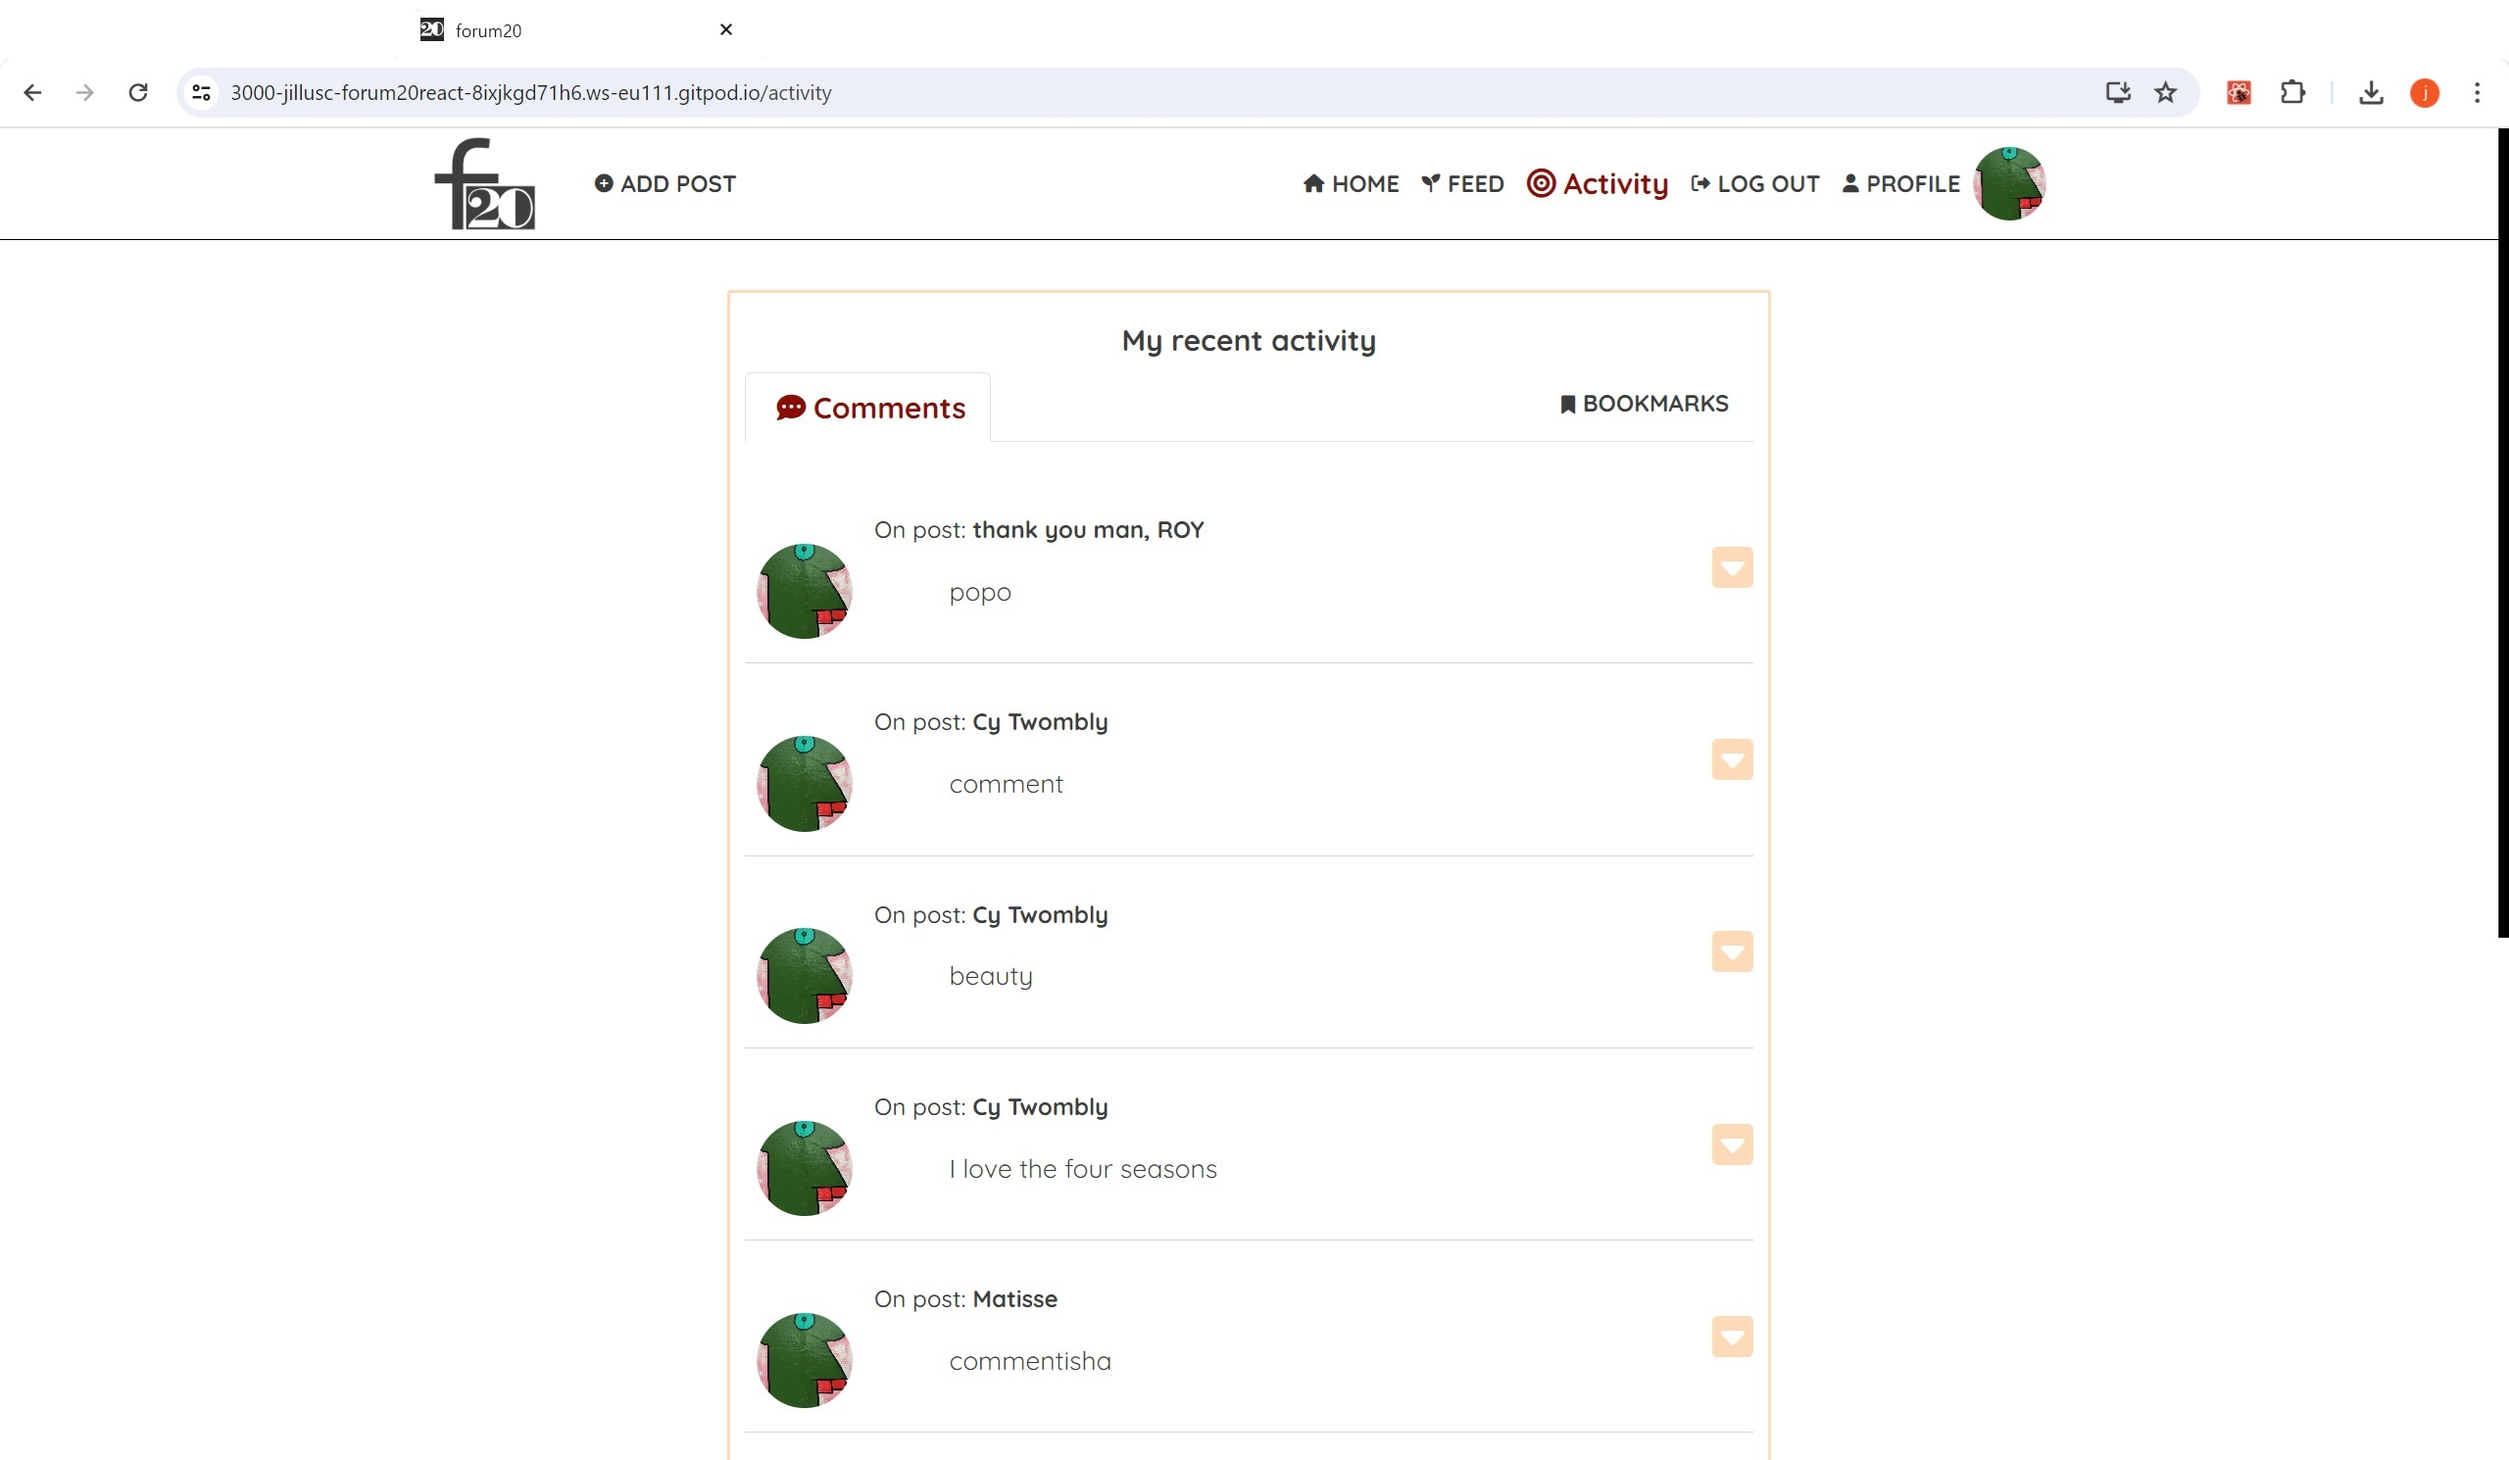
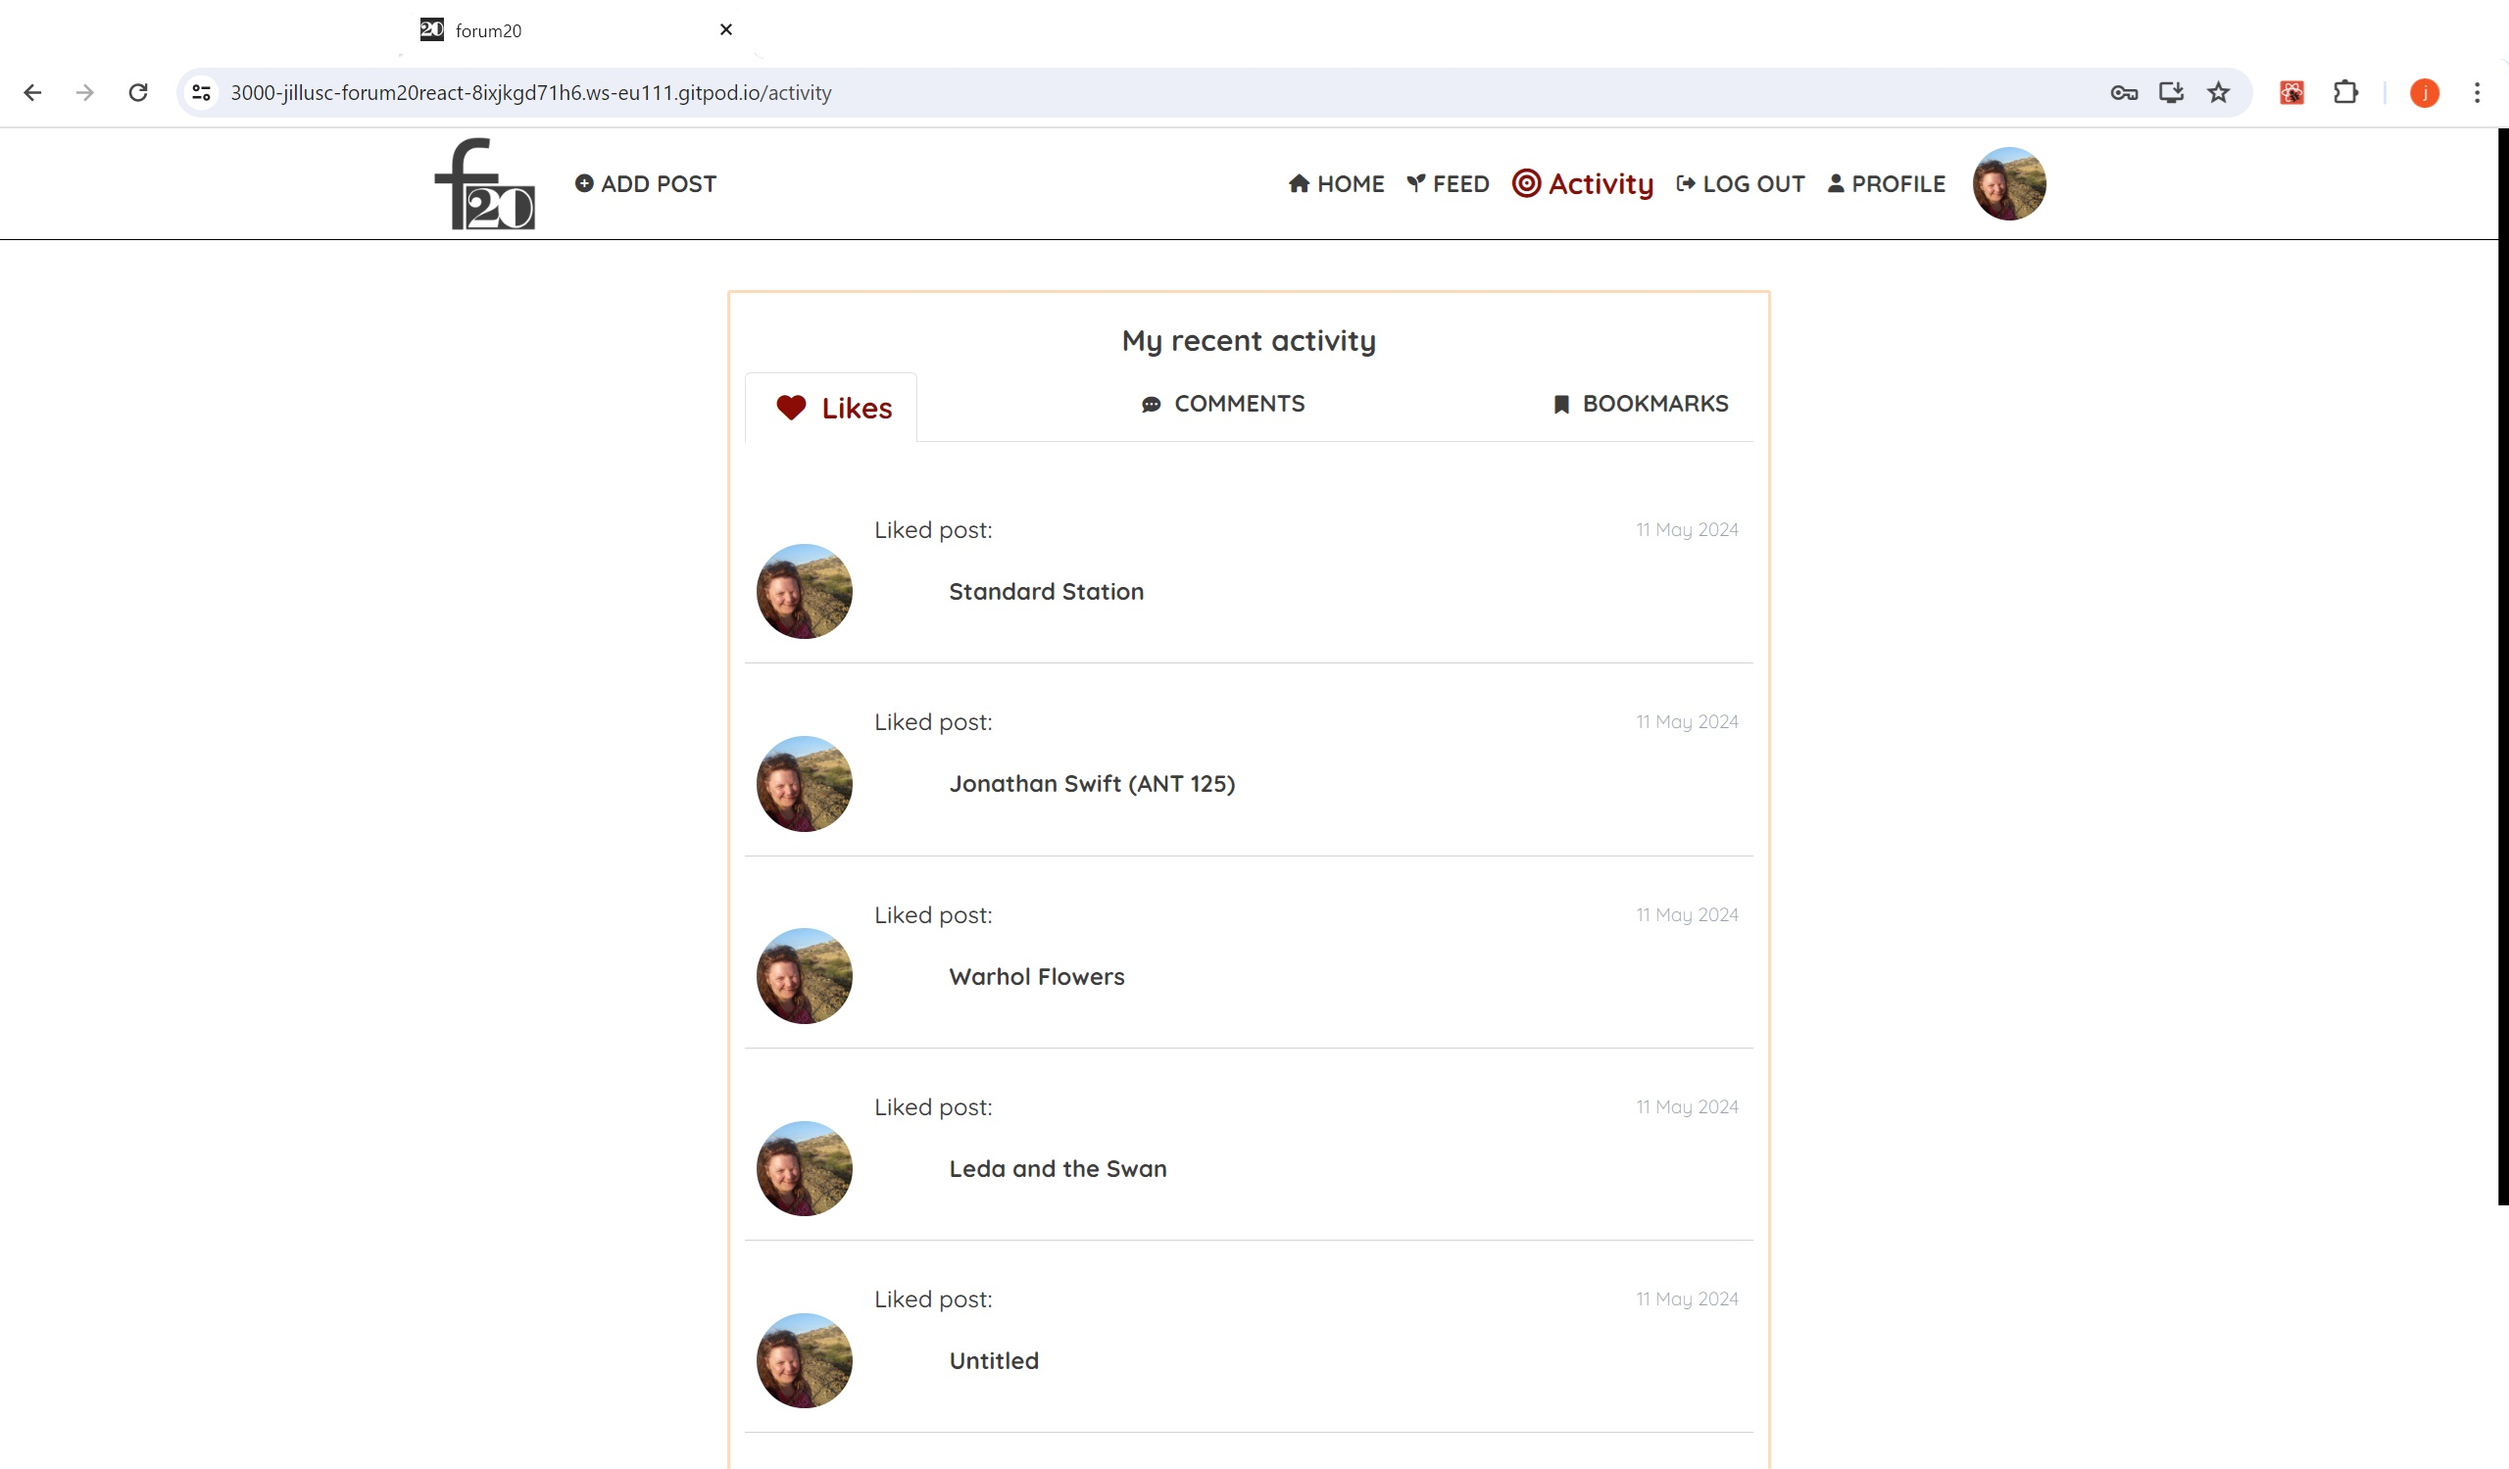
Updated README with regard to new inclusion of Likes tab in UserActivity page.

diff --git a/README.md b/README.md
@@ -282,9 +282,10 @@ Tailored content is displayed to the registered user through this page. The Feed
 
 ### Activity page
 
-The Activity page aggregates all the comments that the authenticated user has submitted and the posts they have bookmarked. A simple organisation of the content utilising tabs offers a convenient way for the user to review these interactions, with the options to revisit the relevant post page as well as edit and delete the comments. For cohesion and consistency of design, the tab headers match the appearance of the navbar links:<br><br>
+The Activity page aggregates all the likes and comments that the user has submitted and the posts they have bookmarked. A simple organisation of the content utilising tabs offers a convenient way for the user to review these interactions, with the options to revisit the relevant post page as well as edit and delete the comments. For cohesion and consistency of design, the tab headers match the appearance of the navbar links:<br><br>
 <img src="README%20images/page-activity1.jpg"><br><br>
-<img src="README%20images/page-activity2.jpg">
+<img src="README%20images/page-activity2.jpg"><br><br>
+<img src="README%20images/page-activity3.jpg">
 
 ### Add Post page
 
@@ -421,7 +422,8 @@ It was found that when entering 00 for the year of the artwork (in the case of t
 
 The app would benefit from the following modifications:
    - In the 'Most followed profiles' box, making the follow/unfollow buttons' appearance change dynamically based on the user's action (rather than relying on static styles)
-   - Options for the user to delete their account and to retrieve a forgotten password.
+   - Including more details in the tabs in the Activity page, e.g. post owner's username/avatar and remove like/bookmark options
+   - Enabling the user to delete their account and to retrieve a forgotten password.
 
 
 ## Credits
